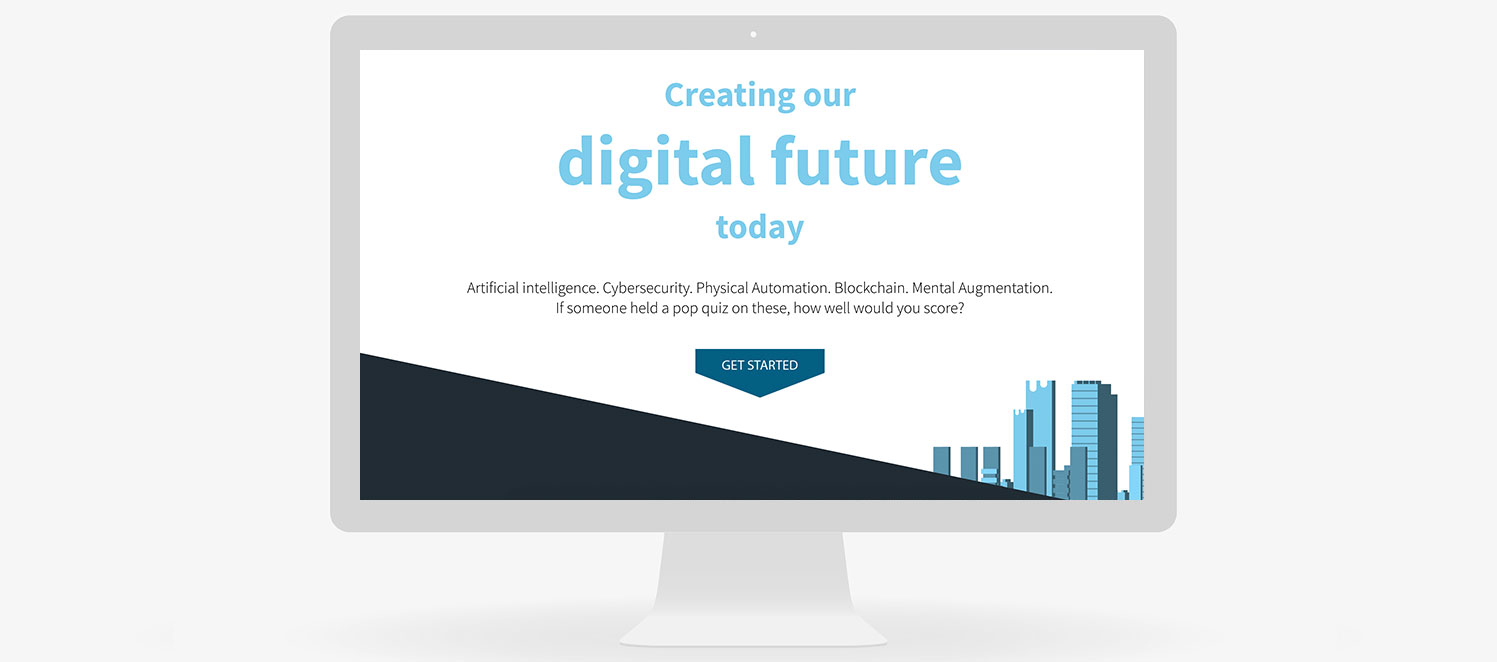
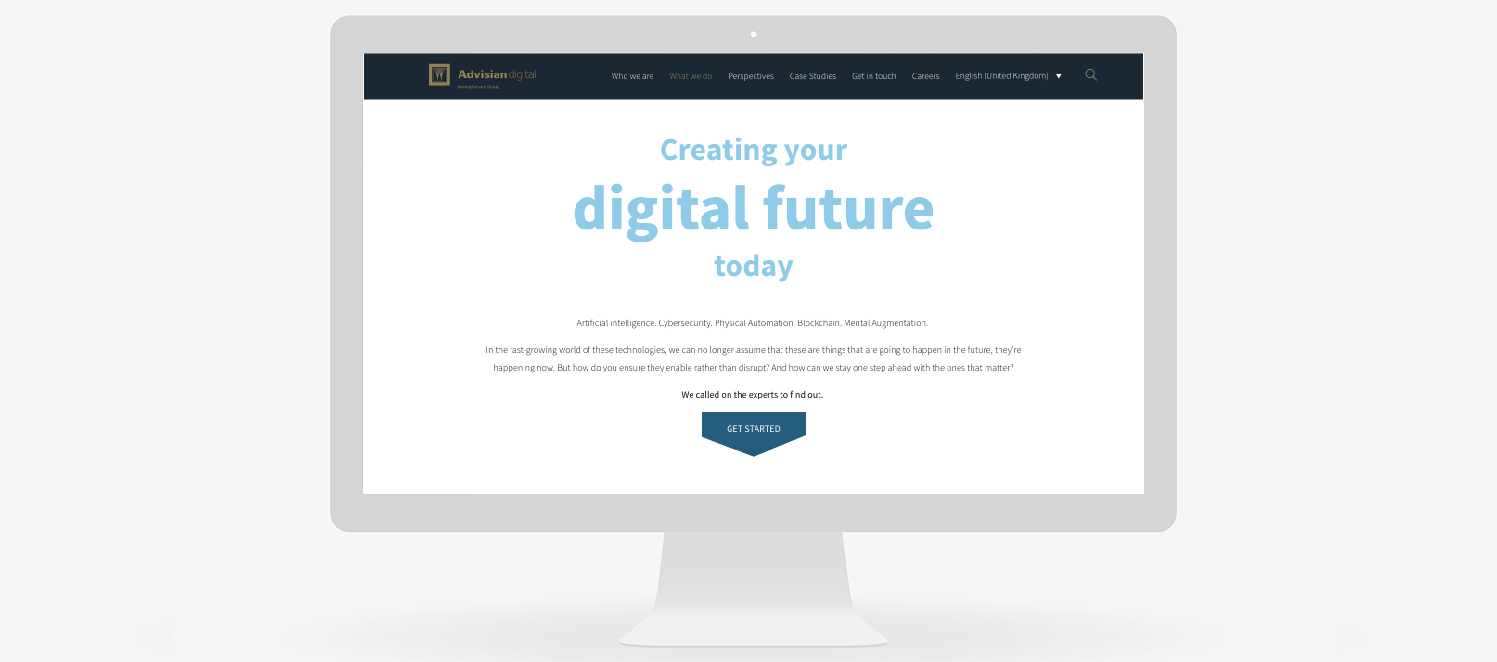
advisian

Changed region(s): [[0.2151, 0.3927, 0.7682, 0.7553], [0.2151, 0.0604, 0.7682, 0.1813], [0.3687, 0.2115, 0.6453, 0.3625]]

diff --git a/src/data/work.ts b/src/data/work.ts
@@ -24,6 +24,23 @@ import orbs from './images/orbs.jpg';
 
 export default () => ([
   {
+    id: 8,
+    ref: 'advisian',
+    niceName: 'advisian',
+    title: 'Advisian Digital',
+    client: 'Advisian',
+    skills: ['Animation', 'React'],
+    desc: ["Advisian Digital Interactive infographic, a single page app with interactive design, animations, icons and graphics."],
+    color: '#005f83',
+		fontColor: '#fff',
+    feature: advisian,
+    images: [ advisian2, advisian ],
+    url: 'https://www.advisian.com/en-gb/what-we-do/services/advisian-digital/digital-future',
+    displayLink: 'www.advisian.com/digital-future',
+    category: 'development',
+    tools: ['react', 'ai']
+  },
+  {
     id: 7,
     ref: 'cube19',
     niceName: 'cube19',
@@ -50,6 +67,22 @@ export default () => ([
     category: 'code',
     feature: orbs,
     tools: [ 'javascript' ]
+  },
+  {
+    id: 6,
+    ref: 'theWellnessNomad',
+    niceName: 'the-wellness-nomad',
+    title: 'The Wellness Nomad',
+    client: 'The Wellness Nomad',
+    skills: ['Web Development'],
+    desc: ["Web development and database for The Wellness Nomad, Hong Kong."],
+    color: '#61cdcd',
+		fontColor: '#fff',
+    feature: theWellnessNomad,
+    images: [ theWellnessNomad ],
+    url: 'http://thewellnessnomad.com/',
+		category: 'development',
+    tools: ['php', 'sql', 'html', 'css']
   },
   {
     id: 9,
@@ -146,37 +179,5 @@ export default () => ([
     url: '',
 		category: 'design',
     tools: ['ps', 'ai', 'js', 'css', 'html']
-  },
-  {
-    id: 6,
-    ref: 'theWellnessNomad',
-    niceName: 'the-wellness-nomad',
-    title: 'The Wellness Nomad',
-    client: 'The Wellness Nomad',
-    skills: ['Web Development'],
-    desc: ["Web development and database for The Wellness Nomad, Hong Kong."],
-    color: '#61cdcd',
-		fontColor: '#fff',
-    feature: theWellnessNomad,
-    images: [ theWellnessNomad ],
-    url: 'http://thewellnessnomad.com/',
-		category: 'development',
-    tools: ['php', 'sql', 'html', 'css']
-  },
-  {
-    id: 8,
-    ref: 'advisian',
-    niceName: 'advisian',
-    title: 'Advisian Digital',
-    client: 'Advisian',
-    skills: ['Animation', 'React'],
-    desc: ["Advisian Digital Interactive infographic, a single page app with interactive design, animations, icons and graphics."],
-    color: '#005f83',
-		fontColor: '#fff',
-    feature: advisian,
-    images: [ advisian2, advisian ],
-    url: 'http://www.advisian.com',
-    category: 'development',
-    tools: ['react', 'ai']
   }
 ]);

diff --git a/src/components/GridDisplay/Design.tsx b/src/components/GridDisplay/Design.tsx
@@ -68,6 +68,14 @@ export default (props:{ item:IGridItem, onClose():void  }) => {
                   </p>
                 )
               }
+              {
+                props.item.url &&
+                <p>
+                  <a href={ props.item.url } target='_blank'>
+                    { props.item.displayLink }
+                  </a>
+                </p>
+              }
             </div>
           </Col>
         </Row>

diff --git a/src/components/GridDisplay/index.tsx b/src/components/GridDisplay/index.tsx
@@ -95,5 +95,6 @@ export interface IGridItem {
   feature: string;
   images: Array<string>;
   url: null | string;
+  displayLink: null | string;
   category: string;
 }
